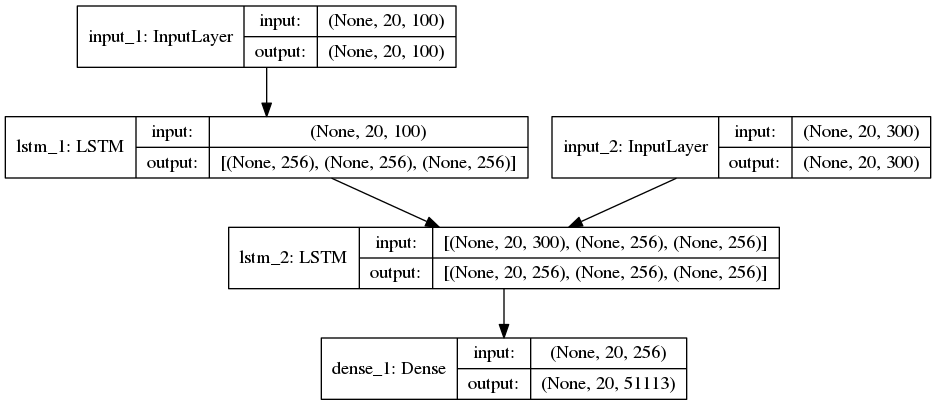
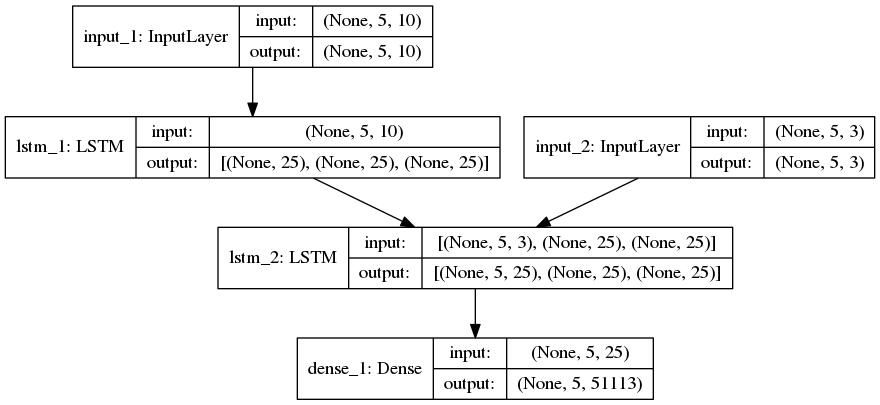
works and samples only 'start' symbol. What do u want from random vectors?

diff --git a/seq2seq_word.py b/seq2seq_word.py
@@ -50,37 +50,33 @@ test_batch_gen = next_batch_keras(input_texts,
                                   dec_sent_size,
                                   tokenizer)
 
-# val_batch_gen = next_batch_keras(input_texts,
-#                                   target_texts,
-#                                   batch_size,
-#                                   enc_vec_size,
-#                                   dec_vec_size,
-#                                   enc_sent_size,
-#                                   dec_sent_size,
-#                                   tokenizer)
-plot_model(model, to_file='model.png', show_shapes=True)
+# plot_model(model, to_file='model.png', show_shapes=True)
 
-# here we see some magic, which comes from keras mistakes and
-# which is described in README in 4.
+# here we see some magic, which comes from keras mistakes
+# which are described in README 4.
 def sparse_cross_entropy(y_true, y_pred):
-    loss = tf.nn.sparse_softmax_cross_entropy_with_logits(labels=y_true,
-                                                          logits=y_pred)
+    loss = tf.nn.sparse_softmax_cross_entropy_with_logits(
+        labels=y_true,
+        logits=y_pred)
     loss_mean = tf.reduce_mean(loss)
     return loss_mean
 
 decoder_target = tf.placeholder(dtype='int32', shape=(None, None))
 
-model.compile(optimizer='adam',
+model.compile(optimizer='nadam',
               loss=sparse_cross_entropy,
               target_tensors=[decoder_target])
 
+# magic ends
+
 model.fit_generator(test_batch_gen,
-                    steps_per_epoch=steps_per_epoch,
-                    epochs=epochs,
-                    verbose=2)
+                    steps_per_epoch = steps_per_epoch,
+                    epochs = epochs,
+                    verbose = 2)
 
 # Save model
-# This line doesn't work, follow this tread until they solve this problem.
+# This line doesn't work, follow this tread until they
+# solve this problem.
 # model.save('s2s.h5')
 
 # Next: inference mode (sampling).
@@ -108,57 +104,38 @@ decoder_model = Model(
     [decoder_outputs] + decoder_states)
 
 
-# Reverse-lookup token index to decode sequences back to
-# something readable.
-
-# reverse_input_char_index = dict(
-#     (i, char) for char, i in input_token_index.items())
-# reverse_target_char_index = dict(
-#     (i, char) for char, i in target_token_index.items())
-
-def decode_sequence(input_seq):
-    # Encode the input as state vectors.
-    states_value = encoder_model.predict(input_seq)
-    
-    # Generate empty target sequence of length 1.
-    target_seq = np.zeros((1, 1, num_decoder_tokens))
-    # Populate the first character of target sequence with the start character.
-    target_seq[0, 0, target_token_index['\t']] = 1.
-    
-    # Sampling loop for a batch of sequences
-    # (to simplify, here we assume a batch of size 1).
+def decode_sequence(input_string):
+    input_seq = prepare_input_string(input_string)
+    states_value = encoder_model.predict([input_seq])
+    target_seq = np.zeros((1, dec_sent_size, dec_vec_size))
+    target_seq[0, 0] = random.uniform(-1, 1, size = dec_vec_size)
     stop_condition = False
     decoded_sentence = ''
+
     while not stop_condition:
         output_tokens, h, c = decoder_model.predict(
             [target_seq] + states_value)
-        # Sample a token
         sampled_token_index = np.argmax(output_tokens[0, -1, :])
-        sampled_char = reverse_target_char_index[sampled_token_index]
-        decoded_sentence += sampled_char
-
-        # Exit condition: either hit max length
-        # or find stop character.
-        if (sampled_char == '\n' or
-            len(decoded_sentence) > max_decoder_seq_length):
+        sampled_word = tokenizer.index_word[
+            sampled_token_index + 1]
+        decoded_sentence += " " + sampled_word + " "
+        if (sampled_word == 'end' or
+            len(decoded_sentence.split()) > dec_sent_size):
             stop_condition = True
-
+            
         # Update the target sequence (of length 1).
-        target_seq = np.zeros((1, 1, num_decoder_tokens))
-        target_seq[0, 0, sampled_token_index] = 1.
-        
+        target_seq[0, 0] = random.uniform(-1, 1,
+                                          size = dec_vec_size)
         # Update states
         states_value = [h, c]
-
+        
     return decoded_sentence
+        
 
-
-# for seq_index in range(100):
-#     # Take one sequence (part of the training set)
-#     # for trying out decoding.
-#     input_seq = encoder_input_data[seq_index: seq_index + 1]
-#     decoded_sentence = decode_sequence(input_seq)
-#     print('-')
-#     print('Input sentence:', input_texts[seq_index])
-#     print('Decoded sentence:', decoded_sentence)
-    
+for seq_index in range(10):
+    # seq_index = 0
+    input_seq = input_texts[seq_index + 100: seq_index + 101][0]
+    decoded_sentence = decode_sequence(input_seq)
+    print('-')
+    print('Input sentence:', input_texts[seq_index])
+    print('Decoded sentence:', decoded_sentence)

diff --git a/seq2seq_char.py b/seq2seq_char.py
@@ -41,24 +41,27 @@ input_token_index = dict(
 target_token_index = dict(
     [(char, i) for i, char in enumerate(target_characters)])
 
-encoder_input_data = np.zeros(
-    (len(input_texts),
-     max_encoder_seq_length,
-     num_encoder_tokens),
-    dtype='float32')
-decoder_input_data = np.zeros(
-    (len(input_texts), max_decoder_seq_length, num_decoder_tokens),
-    dtype='float32')
-decoder_target_data = np.zeros(
-    (len(input_texts), max_decoder_seq_length, num_decoder_tokens),
-    dtype='float32')
+encoder_input_data = np.zeros((len(input_texts),
+                               max_encoder_seq_length,
+                               num_encoder_tokens),
+                              dtype='float32')
+decoder_input_data = np.zeros((len(input_texts),
+                               max_decoder_seq_length,
+                               num_decoder_tokens),
+                              dtype='float32')
+decoder_target_data = np.zeros((len(input_texts),
+                                max_decoder_seq_length,
+                                num_decoder_tokens),
+                               dtype='float32')
 
 
-for i, (input_text, target_text) in enumerate(zip(input_texts, target_texts)):
+for i, (input_text, target_text) in enumerate(zip(input_texts,
+                                                  target_texts)):
     for t, char in enumerate(input_text):
         encoder_input_data[i, t, input_token_index[char]] = 1.
     for t, char in enumerate(target_text):
-        # decoder_target_data is ahead of decoder_input_data by one timestep
+        # decoder_target_data is ahead of decoder_input_data
+        # by one timestep
         decoder_input_data[i, t, target_token_index[char]] = 1.
         if t > 0:
             # decoder_target_data will be ahead by one timestep
@@ -137,7 +140,8 @@ def decode_sequence(input_seq):
     
     # Generate empty target sequence of length 1.
     target_seq = np.zeros((1, 1, num_decoder_tokens))
-    # Populate the first character of target sequence with the start character.
+    # Populate the first character of target
+    # sequence with the start character.
     target_seq[0, 0, target_token_index['\t']] = 1.
     
     # Sampling loop for a batch of sequences

diff --git a/prepare_data.py b/prepare_data.py
@@ -1,7 +1,7 @@
 import struct
 import re
 import numpy as np
-from numpy.random import normal
+from numpy import random
 from random import shuffle
 import pickle
 from constants import *
@@ -39,17 +39,12 @@ def get_dict(dict_file):
     return result_dict, col
 
 
-def normalize(vec):
-    total = sum(vec)
-    return list(map(lambda x: x/total, vec))
-
-
 def word2vec(dictionary, word, vec_size):
     try:
         result = dictionary[word]
         return result
     except KeyError:
-        new_vec = normalize(normal(size = vec_size))
+        new_vec = random.uniform(-1, 1, size = vec_size)
         result = dictionary[word] = new_vec
         return result
 
@@ -62,7 +57,7 @@ def corpora2vec(dictionary, corpora, vec_size):
             # curr.append(word2vec(dictionary, word, vec_size))
             # to test without softlink_ru (you also need to
             # comment the last line of this file)
-            curr.append(normalize(normal(size = vec_size)))
+            curr.append(random.uniform(-1, 1, size = vec_size))
         result.append(curr)
     return result
 
@@ -120,6 +115,15 @@ def get_data_seq2seq(corpora_file):
     return input_texts, target_texts
 
 
+def prepare_input_string(input_string):
+    enc_texts = input_string.split()
+    enc_texts_vec = prepare_corpora(enc_dict,
+                                    enc_texts,
+                                    enc_vec_size,
+                                    enc_sent_size)
+    return enc_texts_vec
+
+    
 def next_batch_keras(input_texts, target_texts, n,
                      enc_vec_size, dec_vec_size,
                      enc_sent_size, dec_sent_size,

diff --git a/constants.py b/constants.py
@@ -1,16 +1,16 @@
-batch_size = 50  # Batch size for training.
-epochs = 5  # Number of epochs to train for.
-latent_dim = 256  # Latent dimensionality of the encoding space.
+batch_size = 3  # Batch size for training.
+epochs = 2  # Number of epochs to train for.
+latent_dim = 30 #256  # Latent dimensionality of the encoding space.
 
 # Path to the data txt file on disk.
 train_data_path = 'rus_train.txt' # 'tmp' for tests
 val_data_path = 'rus_val.txt'
-enc_sent_size = 20
-dec_sent_size = 20
-enc_vec_size = 100
-dec_vec_size = 300
+enc_sent_size = 5
+dec_sent_size = 5
+enc_vec_size = 3
+dec_vec_size = 3
 
-steps_per_epoch = 300
+steps_per_epoch = 10 # 0 # 301513//batch_size
 ru_dict_source = 'softlink_ru'
 en_dict_source = 'softlink_en'
 max_nb_words = 1000000 
